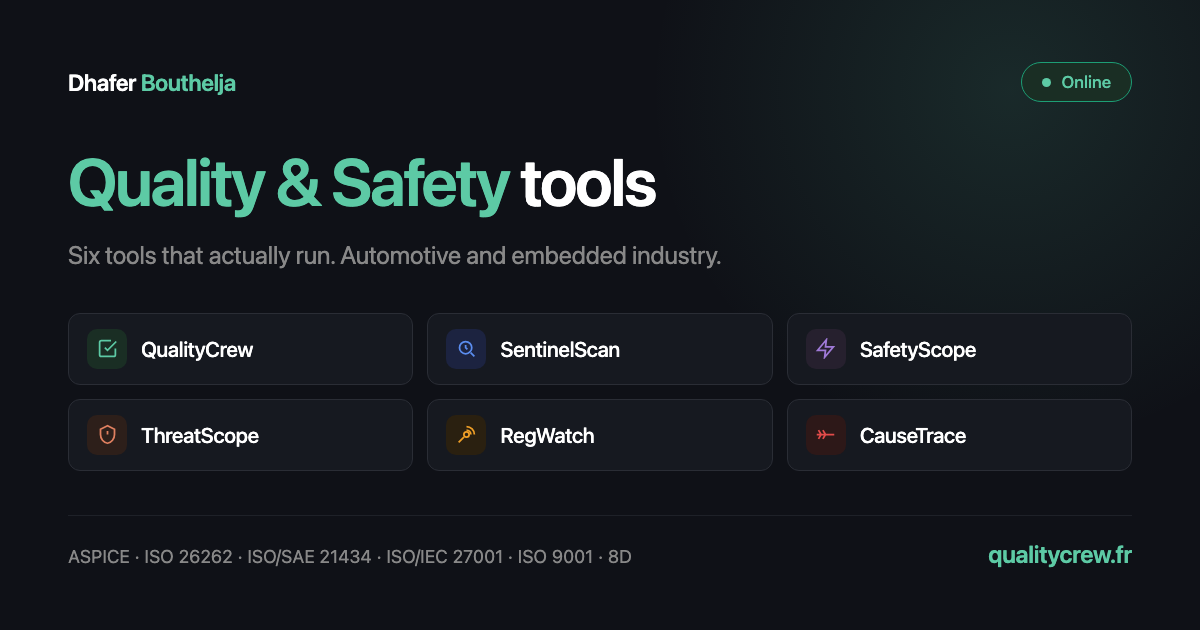
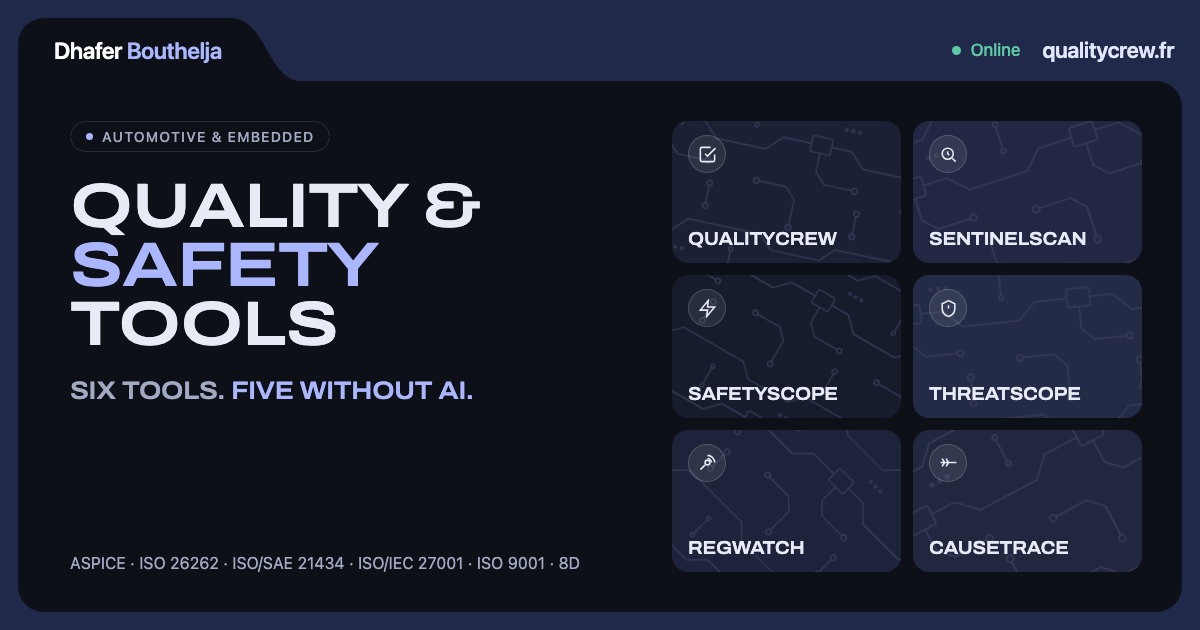
Image de partage en indigo : cadre à crans, textes lus dans le catalogue

diff --git a/scripts/build_og_image.py b/scripts/build_og_image.py
@@ -6,9 +6,11 @@ carte française servie en `og:image` sur `/en` serait exactement cette faute,
 au seul endroit qu'un visiteur voit *avant* d'avoir ouvert le site.
 
 ⚠ **Le gabarit ne recopie pas les couleurs du site, il les LIT.** Les valeurs
-viennent de `site/style.css` : une carte qui fige `#5dcaa5` en dur cesserait
-de ressembler au site au premier changement de thème, sans que rien ne le
-dise. Même motif que `/hara/matrix`, qui sert la table plutôt que de la
+viennent de `site/home.css`, la page de garde — indigo depuis le 21/09/2026,
+alors que les pages d'outils restent vertes : l'image montre l'accueil,
+puisque c'est lui que désigne un lien vers qualitycrew.fr. Une carte qui
+figerait une couleur en dur cesserait de ressembler au site au premier
+changement de thème, sans que rien ne le dise. Même motif que `/hara/matrix`, qui sert la table plutôt que de la
 laisser recopier.
 
 Rendu par Chrome sans interface : le gabarit reste du HTML lisible, et le
@@ -17,6 +19,7 @@ résultat est un PNG — LinkedIn, Slack et les autres n'acceptent pas de SVG.
     .venv/bin/python3 -B scripts/build_og_image.py
 """
 
+import base64
 import re
 import shutil
 import subprocess
@@ -41,133 +44,157 @@ CHROMES = (
 # Les six outils, dans l'ordre de la page de garde. Le SVG est celui de la
 # carte, à l'identique — l'image doit montrer le site, pas s'en inspirer.
 TOOLS = (
-    ("QualityCrew", "green",
+    ("QualityCrew",
      '<path d="M9 11l3 3L22 4"/><path d="M21 12v7a2 2 0 0 1-2 2H5a2 2 0 0 1-2-2V5a2 2 0 0 1 2-2h11"/>'),
-    ("SentinelScan", "blue",
+    ("SentinelScan",
      '<circle cx="11" cy="11" r="7"/><path d="M21 21l-4.3-4.3"/><path d="M11 8v3l2 2"/>'),
-    ("SafetyScope", "purple",
+    ("SafetyScope",
      '<path d="M13 2 3 14h9l-1 8 10-12h-9z"/>'),
-    ("ThreatScope", "coral",
+    ("ThreatScope",
      '<path d="M12 2 4 6v6c0 5 3.4 9.4 8 10 4.6-.6 8-5 8-10V6z"/><path d="M12 8v4M12 16h.01"/>'),
-    ("RegWatch", "amber",
+    ("RegWatch",
      '<circle cx="12" cy="12" r="3"/><path d="M12 3a9 9 0 0 1 9 9M12 7a5 5 0 0 1 5 5M3 21l6-6"/>'),
-    ("CauseTrace", "red",
+    ("CauseTrace",
      '<path d="M2 12h20M7 12 4 7M12 12 9 7M7 12l-3 5M12 12l-3 5"/>'),
 )
 
 STANDARDS = "ASPICE · ISO 26262 · ISO/SAE 21434 · ISO/IEC 27001 · ISO 9001 · 8D"
 
-# Le seul texte traduisible de la carte. Le reste — noms d'outils, normes,
-# nom propre, domaine — est identique dans les deux langues.
-WORDS = {
-    "fr": {
-        "title": "Outils <em>Qualité &amp; Sécurité</em>",
-        "sub": "Six outils qui tournent réellement. Industrie automobile et embarqué.",
-        "live": "En ligne",
-    },
-    "en": {
-        "title": "<em>Quality &amp; Safety</em> tools",
-        "sub": "Six tools that actually run. Automotive and embedded industry.",
-        "live": "Online",
-    },
-}
+# ⚠ Les textes viennent du catalogue, pas d'ici : ce sont ceux de la page de
+# garde (titre, surtitre, titre du catalogue, badge). Les recopier, ce serait
+# deux versions d'une même phrase — et la carte partagée finirait par dire
+# autre chose que le site. Noms d'outils, normes et domaine ne se traduisent pas.
+sys.path.insert(0, str(_ROOT / "src"))
+from i18n import t  # noqa: E402
+
+# ⚠ Le titre du catalogue porte un DÉCOMPTE (« Six outils. Cinq sans IA. ») :
+# ajouter un outil oblige à relancer ce script, sans quoi l'image partagée
+# annoncerait l'ancien nombre. Les tests vérifient la page, pas le PNG.
+KEYS = {"title": "home.h1", "kicker": "home.hero.kicker",
+        "count": "home.cat.title", "live": "home.status.live"}
 
 
 def palette() -> dict[str, str]:
-    """Les couleurs du site, lues dans `site/style.css`.
+    """Les couleurs de la page de garde, lues dans `site/home.css`.
 
     ⚠ Lire plutôt que recopier : c'est ce qui garantit que la carte partagée
-    reste la carte du site.
+    reste la carte du site. Depuis le 21/09/2026, l'accueil est indigo et vit
+    dans home.css (jetons `--h-*`) : l'image suit l'accueil, pas les pages
+    d'outils restées vertes. Le préfixe est retiré à la lecture.
     """
-    css = (_SITE / "style.css").read_text(encoding="utf-8")
-    bloc = css[css.index(":root{"):css.index("}", css.index(":root{"))]
-    return dict(re.findall(r"--([\w-]+):\s*(#[0-9a-fA-F]+)", bloc))
+    css = (_SITE / "home.css").read_text(encoding="utf-8")
+    bloc = css[css.index(":root{"):css.index("\n}", css.index(":root{"))]
+    couleurs = dict(re.findall(r"--h-([\w-]+):\s*(#[0-9a-fA-F]+)", bloc))
+    couleurs["traces"] = re.search(r'--h-traces:\s*(url\(".*?"\));', bloc).group(1)
+    return couleurs
+
+
+def _font_face() -> str:
+    """Archivo, incorporée en base64.
+
+    ⚠ Chrome sans interface prend sa capture dès que la page est chargée — une
+    police chargée par URL peut arriver APRÈS, et l'image partirait avec une
+    police de repli. Incorporée, elle est là avant le premier rendu.
+    """
+    donnees = base64.b64encode((_SITE / "fonts" / "archivo.woff2").read_bytes()).decode()
+    return ('@font-face{font-family:"Archivo";'
+            f'src:url(data:font/woff2;base64,{donnees}) format("woff2");'
+            'font-weight:500 700;font-stretch:100% 125%;font-display:block}')
+
+
+# Rotation et échelle des tracés, carte par carte — comme sur l'accueil, pour
+# que les six tuiles ne se ressemblent pas.
+_TRACES = ((12, 150), (-18, 180), (30, 140), (-6, 170), (45, 150), (-28, 190))
+
+
+def _tile(i: int, nom: str, svg: str, c: dict[str, str]) -> str:
+    rot, ms = _TRACES[i - 1]
+    return (f'<div class="tile" style="background:{c["t" + str(i)]};--rot:{rot}deg;--ms:{ms}px">'
+            '<span class="icon"><svg viewBox="0 0 24 24" fill="none" stroke="currentColor" '
+            f'stroke-width="2">{svg}</svg></span>'
+            f'<span class="tname">{nom}</span></div>')
 
 
 def template(lang: str) -> str:
     c = palette()
-    mots = WORDS[lang]
-
-    cartes = "\n".join(
-        f'''<div class="tool">
-              <span class="icon i-{teinte}">
-                <svg viewBox="0 0 24 24" fill="none" stroke="currentColor"
-                     stroke-width="2">{svg}</svg>
-              </span>
-              <span class="tname">{nom}</span>
-            </div>'''
-        for nom, teinte, svg in TOOLS)
-
-    teintes = "\n".join(
-        f'.i-{n}{{background:{c[n + "-bg"]};color:{c[n]}}}'
-        for n in ("green", "blue", "purple", "coral", "amber", "red"))
+    mots = {cle: t(k, lang) for cle, k in KEYS.items()}
+    tuiles = "\n".join(_tile(i, nom, svg, c) for i, (nom, svg) in enumerate(TOOLS, start=1))
+    etape = ('<svg class="step" viewBox="0 0 76 64" preserveAspectRatio="none">'
+             '<path d="M0 0C40 0 36 64 76 64H0Z" fill="currentColor"/></svg>')
 
     return f'''<!DOCTYPE html>
 <html lang="{lang}"><head><meta charset="UTF-8"><style>
+{_font_face()}
 *{{margin:0;padding:0;box-sizing:border-box}}
 html,body{{width:{WIDTH}px;height:{HEIGHT}px}}
 body{{
-  background:{c['bg']};color:{c['text']};
+  background:{c['frame']};color:{c['ink']};
   font-family:-apple-system,BlinkMacSystemFont,'Segoe UI',Helvetica,Arial,sans-serif;
-  padding:62px 68px;display:flex;flex-direction:column;justify-content:space-between;
-  position:relative;overflow:hidden;
+  padding:18px;display:flex;flex-direction:column;overflow:hidden;
 }}
-/* La lueur reprend l'accent du site — discrète, elle donne de la profondeur
-   au fond très sombre sans quoi la vignette paraît éteinte. */
-body::before{{
-  content:'';position:absolute;top:-320px;right:-220px;width:820px;height:820px;
-  background:radial-gradient(circle,{c['green']}22 0%,transparent 62%);
-}}
-.top{{display:flex;align-items:center;justify-content:space-between;position:relative}}
+/* Le cran de la page de garde : l'onglet porte le nom, la bande le domaine. */
+.notch{{display:flex;align-items:flex-end;height:64px;margin-bottom:-1px;position:relative;z-index:2}}
+.tab{{background:{c['panel']};height:64px;border-radius:26px 0 0 0;display:flex;align-items:center;padding:0 8px 0 36px}}
 .logo{{font-size:23px;font-weight:600;letter-spacing:-.4px;color:#fff}}
-.logo em{{color:{c['green']};font-style:normal}}
-.live{{
-  display:flex;align-items:center;gap:10px;background:{c['green-bg']};
-  border:1px solid {c['green-border']};color:{c['green']};
-  font-size:17px;font-weight:500;padding:9px 20px;border-radius:24px;
+.logo em{{color:{c['accent-ink']};font-style:normal}}
+.step{{width:76px;height:64px;color:{c['panel']};margin-left:-1px;display:block}}
+.band{{flex:1;height:64px;align-self:flex-start;display:flex;align-items:center;justify-content:flex-end;gap:22px;padding-right:8px}}
+.live{{display:flex;align-items:center;gap:9px;color:{c['status']};font-size:17px;font-weight:500}}
+.dot{{width:9px;height:9px;border-radius:50%;background:{c['status']}}}
+.url{{font-size:22px;font-weight:600;color:{c['frame-ink']};letter-spacing:-.3px}}
+.panel{{
+  flex:1;background:{c['panel']};border-radius:0 26px 26px 26px;position:relative;z-index:1;
+  display:grid;grid-template-columns:minmax(0,1fr) 470px;gap:40px;padding:40px 40px 40px 52px;
 }}
-.dot{{width:9px;height:9px;border-radius:50%;background:{c['green']}}}
-.mid{{position:relative}}
-h1{{font-size:66px;font-weight:600;line-height:1.08;letter-spacing:-1.9px;color:#fff}}
-h1 em{{color:{c['green']};font-style:normal}}
-.sub{{font-size:25px;color:{c['text-muted']};margin-top:22px;letter-spacing:-.2px}}
-.grid{{
-  position:relative;display:grid;grid-template-columns:repeat(3,1fr);
-  gap:14px;margin-top:44px;
+.left{{display:flex;flex-direction:column;justify-content:space-between}}
+.chip{{
+  display:inline-flex;align-items:center;gap:9px;border:1px solid {c['line']};
+  border-radius:999px;padding:6px 15px;font-size:14px;font-weight:500;letter-spacing:.09em;
+  text-transform:uppercase;color:{c['ink-2']};
 }}
-.tool{{
-  display:flex;align-items:center;gap:14px;background:{c['bg-card']};
-  border:1px solid {c['border']};border-radius:12px;padding:15px 18px;
+.chip::before{{content:'';width:7px;height:7px;border-radius:50%;background:{c['accent-ink']}}}
+h1,.count,.tname{{font-family:"Archivo",sans-serif;font-weight:600;text-transform:uppercase}}
+h1{{font-size:62px;font-stretch:125%;line-height:.95;letter-spacing:-.015em;color:{c['ink']};margin-top:26px}}
+h1 em,.count em{{color:{c['accent-ink']};font-style:normal}}
+.count{{font-size:25px;font-stretch:112%;color:{c['ink-2']};margin-top:22px;letter-spacing:-.01em}}
+.norms{{font-size:16px;color:{c['ink-2']};letter-spacing:.2px}}
+.tiles{{display:grid;grid-template-columns:1fr 1fr;grid-auto-rows:1fr;gap:12px}}
+.tile{{
+  position:relative;overflow:hidden;isolation:isolate;border-radius:16px;padding:14px 16px;
+  display:flex;flex-direction:column;justify-content:space-between;
+}}
+/* Les tracés de circuit imprimé de l'accueil, lus dans home.css. */
+.tile::before{{
+  content:'';position:absolute;inset:-40%;z-index:-1;background:{c['accent']};filter:brightness(.34);
+  -webkit-mask:{c['traces']} 0 0/var(--ms) var(--ms) repeat;transform:rotate(var(--rot));
 }}
 .icon{{
-  width:40px;height:40px;border-radius:10px;flex-shrink:0;
-  display:flex;align-items:center;justify-content:center;
+  width:38px;height:38px;border-radius:50%;display:grid;place-items:center;color:{c['tile-ink']};
+  background:rgba(255,255,255,.08);border:1px solid rgba(255,255,255,.18);
 }}
-.icon svg{{width:21px;height:21px}}
-{teintes}
-.tname{{font-size:21px;font-weight:500;color:#fff;letter-spacing:-.3px}}
-.foot{{
-  position:relative;display:flex;align-items:baseline;justify-content:space-between;
-  border-top:1px solid {c['border-sub']};padding-top:24px;
-}}
-.norms{{font-size:18px;color:{c['text-muted']};letter-spacing:.2px}}
-.url{{font-size:24px;font-weight:600;color:{c['green']};letter-spacing:-.3px}}
+.icon svg{{width:19px;height:19px}}
+.tname{{font-size:18px;font-stretch:112%;color:{c['tile-ink']};letter-spacing:-.01em}}
 </style></head><body>
 
-  <div class="top">
-    <div class="logo">Dhafer <em>Bouthelja</em></div>
-    <div class="live"><span class="dot"></span>{mots['live']}</div>
+  <div class="notch">
+    <div class="tab"><div class="logo">Dhafer <em>Bouthelja</em></div></div>
+    {etape}
+    <div class="band">
+      <div class="live"><span class="dot"></span>{mots['live']}</div>
+      <div class="url">qualitycrew.fr</div>
+    </div>
   </div>
 
-  <div class="mid">
-    <h1>{mots['title']}</h1>
-    <div class="sub">{mots['sub']}</div>
-    <div class="grid">{cartes}</div>
-  </div>
-
-  <div class="foot">
-    <div class="norms">{STANDARDS}</div>
-    <div class="url">qualitycrew.fr</div>
+  <div class="panel">
+    <div class="left">
+      <div>
+        <span class="chip">{mots['kicker']}</span>
+        <h1>{mots['title']}</h1>
+        <div class="count">{mots['count']}</div>
+      </div>
+      <div class="norms">{STANDARDS}</div>
+    </div>
+    <div class="tiles">{tuiles}</div>
   </div>
 
 </body></html>'''
@@ -191,6 +218,8 @@ def build(lang: str) -> Path:
             [chrome(), "--headless", "--disable-gpu", "--hide-scrollbars",
              "--force-device-scale-factor=1",
              f"--window-size={WIDTH},{HEIGHT}",
+             # Laisse le rendu se stabiliser avant la capture.
+             "--virtual-time-budget=3000",
              f"--screenshot={sortie}", source.as_uri()],
             check=True, capture_output=True, timeout=120)
     return sortie
